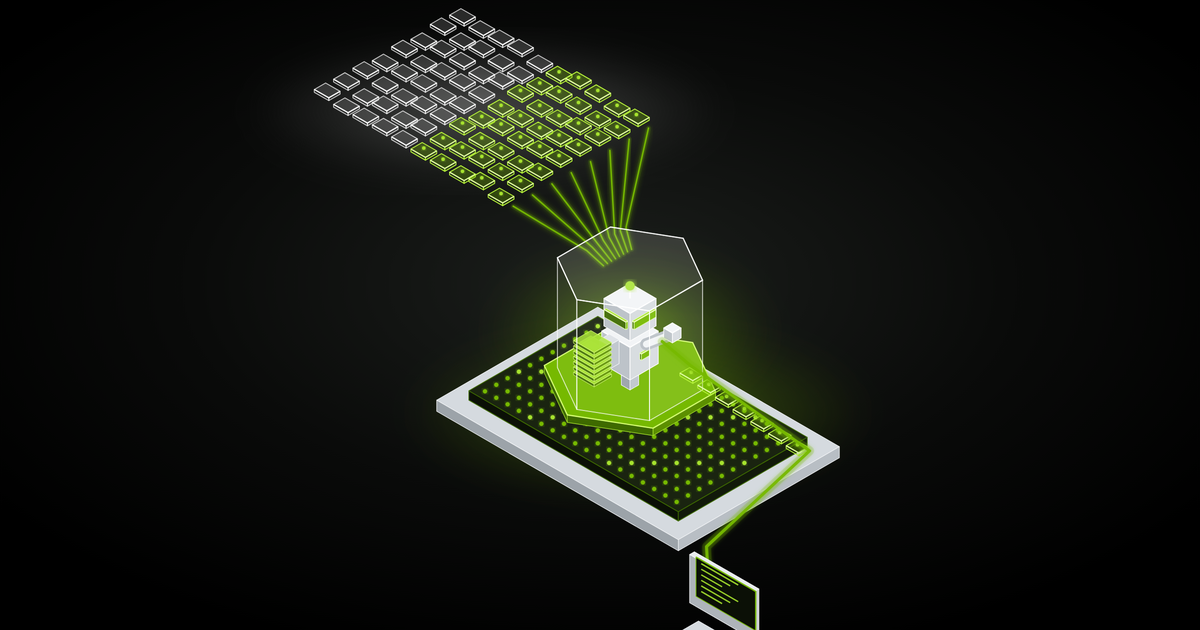
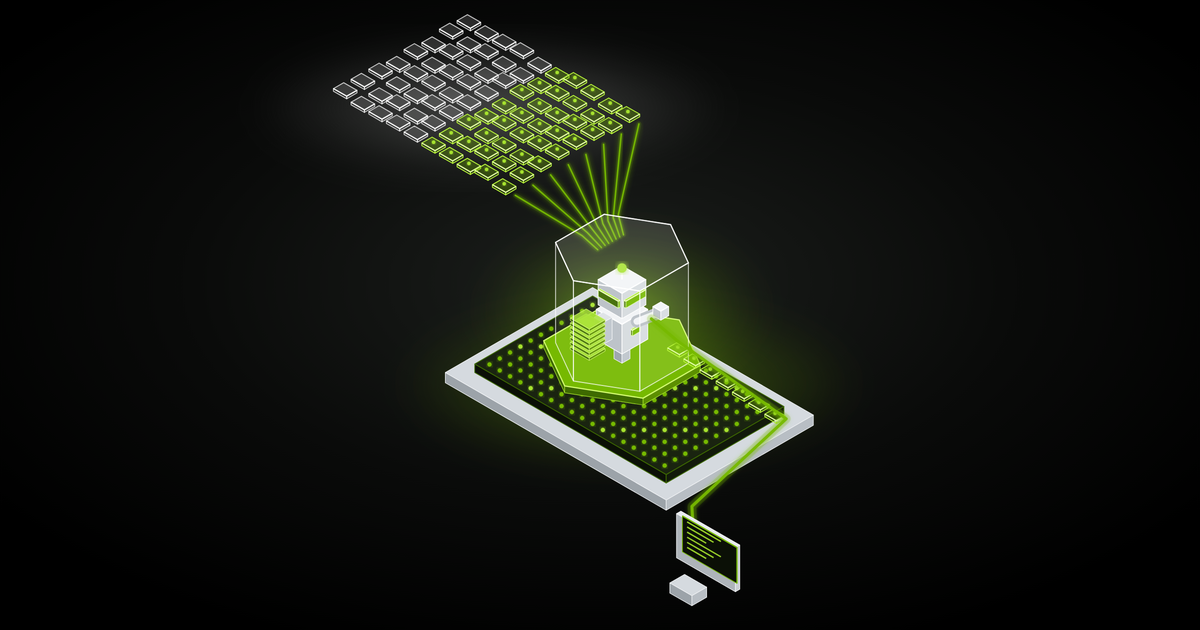
Vol.2: cover illustration replaced (third version); 7.31 s; two more evidence rows
vol2-nemotron/figures/cover_vol2.png: the third version of the illustration. In
the second one the laptop base at the bottom ran out of the frame. Same file
name; the pages that show it are unchanged.

vol2-nemotron/README.md: the time to finish an answer is written as 7.31 s in
the results table and in the claim -> evidence table (the stored median is
7,314 ms; it read 7.3). Two rows are added to the claim -> evidence table: the
size of the MMLU sample (2,850) and the highest total throughput of the
RAG-shaped sweep on each night (2,133 and 2,246 tok/s). The checker now runs
60 checks on this README.

CHANGELOG.md: two lines in the entry of 2026-10-02.

Changed region(s): [[0.2467, 0.0, 0.7092, 1.0]]

diff --git a/vol2-nemotron/README.md b/vol2-nemotron/README.md
@@ -45,7 +45,7 @@ That is the NVFP4 profile, everything else at the image default; this is what th
 |---|---|---|
 | Memory the container adds at its smallest working budget (4k context, 32 sequences) | **21.0 GiB** | 21.9 GiB |
 | Single-stream generation, median | **305 tok/s** | 73 tok/s |
-| Time to finish an answer, median (`max_tokens` 4096) | **7.3 s** | 20.1 s |
+| Time to finish an answer, median (`max_tokens` 4096) | **7.31 s** | 20.1 s |
 | Generation at ~1k / ~14k / ~120k tokens of context | **305 / 315 / 308 tok/s** | 72 / 45 / 52 tok/s |
 | Most concurrent chat requests inside the MLPerf server target | **128** (image default, 256 sequences) | 8 (32 sequences) |
 | Same, RAG-shaped prompts | **8** | 4 |
@@ -88,7 +88,7 @@ In the files, **A2** and **N3** are Nemotron 3 Nano (NIM 2.0.12, NVFP4); **A1** 
 | 4.1× the 9B v2 in tokens per second | 4.1× | `results/p50_speed/analysis.json` | `conclusions.A2_over_A1.generation_rate.ratio_of_means` | rounds |
 | An answer comes back 2.9× faster | 2.9× | `results/p53_answer/analysis.json` | `1 / conclusions.A2_over_A1.total_latency_ms.ratio_of_means` | rounds |
 | … because it writes about 1.4× more tokens | 1.4× | `results/p53_answer/analysis.json` | `conclusions.A2_over_A1.completion_tokens.ratio_of_means` | rounds |
-| Time to finish an answer, median, s: Nemotron 3 Nano · 9B v2 | 7.3 · 20.1 | `results/p53_answer/analysis.json` | `conclusions.per_arm.{A2,A1}.total_latency_ms.p50 / 1000` | rounds |
+| Time to finish an answer, median, s: Nemotron 3 Nano · 9B v2 | 7.31 · 20.1 | `results/p53_answer/analysis.json` | `conclusions.per_arm.{A2,A1}.total_latency_ms.p50 / 1000` | rounds |
 | Generation at ~1k · ~14k tokens of context (Nemotron 3 Nano) | 305 · 315 | `results/p53_longctx_addendum/analysis.json` | `per_arm.A2.depths.{1024,16384}.generation_tps_p50` | rounds |
 | … at ~120k | 308 | `results/p55_longctx_120k/analysis.json` | `conditions.a2_120k.generation_tps_p50` | rounds |
 | 9B v2 at ~1k · ~14k | 72 · 45 | `results/p53_longctx/analysis.json` | `per_arm.A1.depths.{1024,16384}.generation_tps_p50` | rounds |
@@ -98,11 +98,13 @@ In the files, **A2** and **N3** are Nemotron 3 Nano (NIM 2.0.12, NVFP4); **A1** 
 | RAG-shaped prompts: the limit is 8 (first night) | 8 | `results/p55_concurrency_a2_256/analysis.json` | `sweeps.A2\|R\|main.conclusions.max_concurrency_within_server_slo` | equals |
 | … second night: void by its own rule | null | `results/p80_rerun/slo_ceilings.json` | `groups.s256_R.p80.conclusions` | equals |
 | … second night, the latency test alone | 8 | `results/p80_rerun/slo_ceilings.json` | `groups.s256_R.p80.largest_level_inside_slo_without_p1.server` | equals |
+| RAG-shaped prompts: total throughput at its highest level, tok/s (first night, c=128 · second night, c=256) | 2,133 · 2,246 | `results/p55_concurrency_a2_256/analysis.json` | `{sweeps.A2\|R\|main.levels[7].output_tps,results/p80_rerun/slo_ceilings.json::groups.s256_R.levels[8].p80_tps}` | rounds |
 | 9B v2, chat: 16 the first night | 16 | `results/p53_concurrency_v2/analysis.json` | `sweeps.A1\|C\|main.conclusions.max_concurrency_within_server_slo` | equals |
 | 9B v2, chat: 8 the second night (shown in the table) | 8 | `results/p80_rerun/slo_ceilings.json` | `groups.v2_A1_C.p80.conclusions.max_concurrency_within_server_slo` | equals |
 | 9B v2, RAG-shaped: 4, both nights | 4 · 4 | `results/p53_concurrency_v2/analysis.json` | `{sweeps.A1\|R\|main.conclusions.max_concurrency_within_server_slo,results/p80_rerun/slo_ceilings.json::groups.v2_A1_R.p80.conclusions.max_concurrency_within_server_slo}` | rounds |
 | GSM8K · MMLU sample, reasoning on (Nemotron 3 Nano) | 95.7% · 88.0% | `results/p78_quality/analysis.json` | `cells.N3\|{on_gsm8k_1,on_mmlu}.accuracy_pct` | rounds |
 | GSM8K · MMLU sample, reasoning on (9B v2) | 95.2% · 84.0% | `results/p78_quality/analysis.json` | `cells.N2\|{on_gsm8k_1,on_mmlu}.accuracy_pct` | rounds |
+| … the MMLU sample: 2,850 questions | 2,850 | `results/p78_quality/analysis.json` | `cells.N3\|on_mmlu.items` | rounds |
 | Reasoning off: points lower on GSM8K · MMLU | 5.5 · 12.3 | `results/p78_quality/analysis.json` | `models.N3.{Q2_gsm8k_on_minus_off,Q2_mmlu_on_minus_off}.diff_pp` | rounds |
 | On MMLU the median answer fell from 198 tokens to 7 | 198 · 7 | `results/p78_quality/analysis.json` | `models.N3.reasoning_really_off.mmlu.{on_median,off_median}` | rounds |
 | Upstream vLLM with NIM's arguments ÷ NIM, at 1 · 8 · 32 · 64 · 128 | 1.01 · 1.01 · 1.02 · 1.01 · 1.03 | `results/p78_nim_vs_vllm/analysis.json` | `P4.ratio_V3B2_over_N3_by_level.{1,8,32,64,128}` | rounds |

diff --git a/CHANGELOG.md b/CHANGELOG.md
@@ -5,6 +5,8 @@ Every change to this repository that reached `main`, newest first. Volumes are n
 ## 2026-10-02 · Vol.2 forum post published
 
 - **Vol.2 forum post:** the article was posted on the NVIDIA Developer Forum on 2026-10-02. The link is on the front page, at the top of [`vol2-nemotron/README.md`](vol2-nemotron/README.md) and in `releases/vol2.md`. → <https://forums.developer.nvidia.com/t/nemotron-3-nano-on-one-rtx-5090-with-nim-300-tok-s-flat-to-120k-context-128-concurrent-requests/384859>
+- **Cover illustration replaced (third version):** in the second version the laptop base at the bottom ran out of the frame. Same file name, [`vol2-nemotron/figures/cover_vol2.png`](vol2-nemotron/figures/cover_vol2.png); the pages that show it are unchanged.
+- **Vol.2 README:** the time to finish an answer is written as 7.31 s (it was 7.3 s; the stored median is 7,314 ms), and the claim → evidence table has two more rows: the size of the MMLU sample (2,850) and the highest total throughput of the RAG-shaped sweep on each night (2,133 and 2,246 tok/s).
 - **Where the figures are in the thread:** the cover illustration and the chat figure are in the post; the RAG figure is in reply #2, because a new forum account may attach two images per post.
 
 ## 2026-10-02 · Vol.2: a cover illustration; the figures say "per request"
